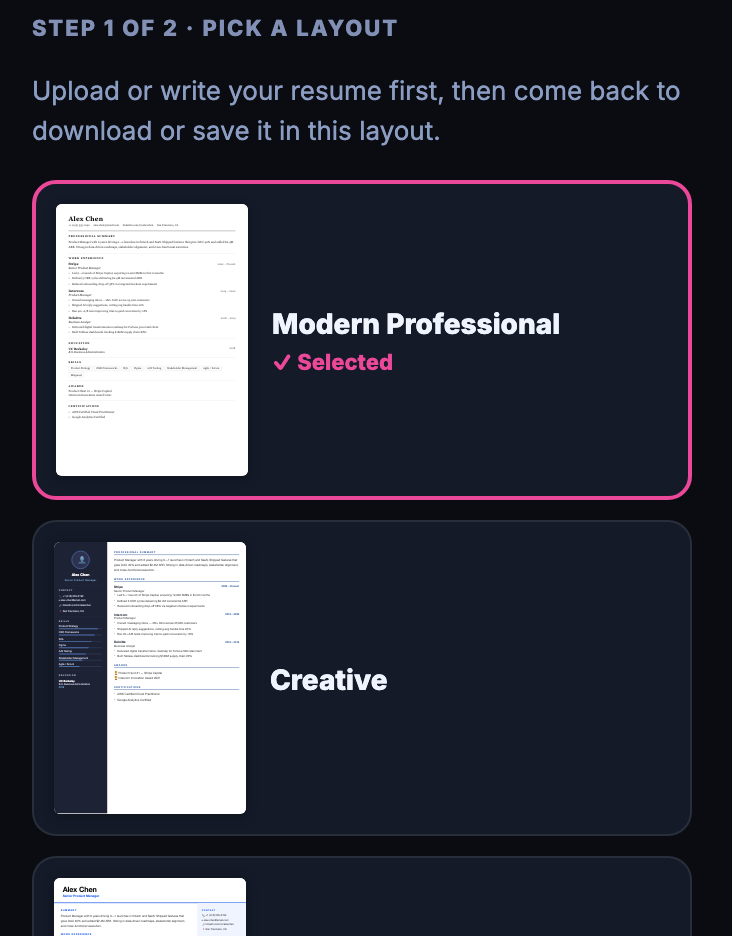
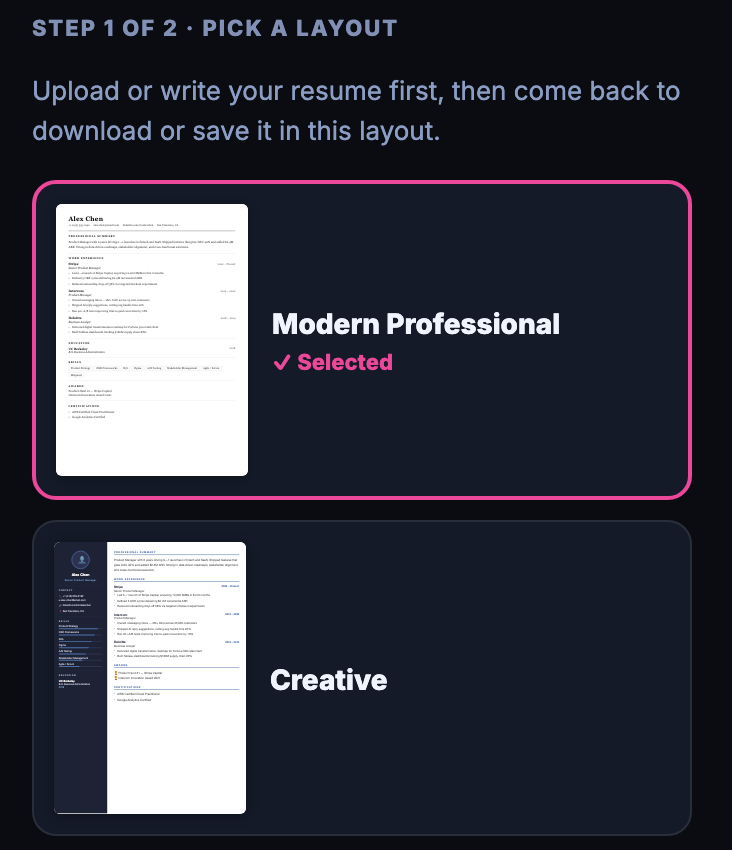
feat(landing): final pass: coach as a simple chat, a better approach section, continuous light in the tool diagram
- AI Career Coach: its own section after the situations. A simple chat window (the app's first three example questions, a typing indicator, an input that opens the coach) and one honest line about what the coach sees. Learned from the owner's chat reference, with no invented answer
- challenge: a soft light flows slowly and continuously along every line, from the logo out to each tool, with three dots in each direction spread out so it never stops
- approach: three connected steps with a small drawing each. Deterministic (the same input, the same result; rules we wrote and test), AI (explains and suggests, never sets your score: ADR-011), You (decide what to do, always). The principles list is folded into the steps and a short footer line
- does not claim an own knowledge base: nothing in the repository shows one (a test keeps the words out until the owner can show it)
- the layout screenshot is cut to two templates

diff --git a/src/features/Landing/NewLanding.css b/src/features/Landing/NewLanding.css
@@ -85,7 +85,9 @@
 /* the connected system */
 .nl-orb { position: relative; width: 100%; aspect-ratio: 13 / 10; display: grid; place-items: center; }
 .nl-orb-lines { position: absolute; inset: 0; width: 100%; height: 100%; }
-.nl-orb-lines path { fill: none; stroke: rgba(155, 123, 255, 0.42); stroke-width: 1.4; stroke-dasharray: 3 7; stroke-linecap: round; vector-effect: non-scaling-stroke; }
+.nl-orb-lines path { fill: none; stroke-linecap: round; vector-effect: non-scaling-stroke; }
+.nl-orb-lines path.nl-line { stroke: rgba(155, 123, 255, 0.38); stroke-width: 1.4; stroke-dasharray: 3 7; }
+.nl-orb-lines path.nl-flow-line { stroke: #F472B6; stroke-width: 2.6; stroke-dasharray: 14 86; filter: drop-shadow(0 0 5px rgba(244, 114, 182, 0.9)); opacity: 0.85; }
 .nl-pulse[data-dir="out"] { fill: #9B7BFF; filter: drop-shadow(0 0 6px rgba(155, 123, 255, 0.9)); }
 .nl-pulse { fill: #F472B6; filter: drop-shadow(0 0 6px rgba(244, 114, 182, 0.9)); }
 .nl-orb-ring { position: absolute; left: 50%; top: 50%; width: 150px; height: 150px; margin: -75px 0 0 -75px; border-radius: 50%; border: 1px solid rgba(155, 123, 255, 0.35); pointer-events: none; }
@@ -146,11 +148,6 @@
 .nl-chip { font-size: 11px; font-weight: 600; letter-spacing: 0.06em; text-transform: uppercase; color: var(--nl-pink); border: 1px solid rgba(244, 114, 182, 0.5); border-radius: 99px; padding: 2px 10px; }
 
 /* approach */
-.nl-approach-grid { display: grid; grid-template-columns: minmax(0, 1fr) minmax(0, 1fr) minmax(0, 0.9fr); gap: 48px; align-items: center; }
-.nl-principles { display: flex; flex-direction: column; gap: 26px; }
-.nl-principles li { display: flex; gap: 16px; align-items: flex-start; }
-.nl-principles h3 { font-size: 17px; font-weight: 700; margin-bottom: 4px; }
-.nl-principles p { font-size: 14px; color: var(--nl-muted); }
 
 /* questions */
 .nl-split-faq { align-items: start; grid-template-columns: minmax(0, 0.7fr) minmax(0, 1.3fr); }
@@ -185,13 +182,15 @@
 .nl-footer-note { margin-top: 40px; padding-top: 24px; border-top: 1px solid var(--nl-border); display: flex; flex-wrap: wrap; justify-content: space-between; gap: 12px 32px; font-size: 12.5px; color: var(--nl-subtle); }
 .nl-footer-note p { max-width: 760px; }
 
-@media (prefers-reduced-motion: reduce) { .nl-pulse, .nl-orb-ring { display: none; } }
+@media (prefers-reduced-motion: reduce) { .nl-pulse, .nl-orb-ring, .nl-flow-line { display: none; } }
 @media (prefers-reduced-motion: no-preference) {
   .nl-orb-ring { animation: nl-ring 3.6s ease-out infinite; }
   .nl-orb-ring2 { animation-delay: 1.8s; }
   .nl-orb-card { animation: nl-float 6s ease-in-out infinite; }
-  .nl-orb-lines path { animation: nl-flow 1.6s linear infinite; }
-  @keyframes nl-flow { to { stroke-dashoffset: -20; } }
+  .nl-orb-lines path.nl-flow-line { animation: nl-flow 5s linear infinite; }
+  @keyframes nl-flow { from { stroke-dashoffset: 0; } to { stroke-dashoffset: -100; } }
+  .nl-orb-card { animation-name: nl-float, nl-glow; animation-duration: 6s, 5s; animation-timing-function: ease-in-out; animation-iteration-count: infinite; }
+  @keyframes nl-glow { 0%, 100% { border-color: var(--nl-border); } 50% { border-color: rgba(244, 114, 182, 0.55); } }
   @keyframes nl-spin { to { transform: rotate(360deg); } }
   @keyframes nl-ring { from { transform: scale(1); opacity: .7; } to { transform: scale(2.1); opacity: 0; } }
   @keyframes nl-float { 0%, 100% { transform: translate(-50%, -50%); } 50% { transform: translate(-50%, calc(-50% - 6px)); } }
@@ -201,15 +200,12 @@
 @media (max-width: 1100px) {
   .nl-wrap { padding-left: 32px; padding-right: 32px; }
   .nl-split-tools, .nl-split-faq { grid-template-columns: 1fr; }
-  .nl-approach-grid { grid-template-columns: 1fr 1fr; }
-  .nl-approach-visual { grid-column: 1 / -1; }
-  .nl-moment-grid { grid-template-columns: repeat(2, minmax(0, 1fr)); }
+    .nl-moment-grid { grid-template-columns: repeat(2, minmax(0, 1fr)); }
 }
 @media (max-width: 860px) {
   .nl-nav-links, .nl-hide-sm { display: none; }
   .nl-menu-btn { display: inline-flex; }
-  .nl-hero-grid, .nl-split, .nl-panel, .nl-approach-grid { grid-template-columns: 1fr; gap: 36px; }
-  .nl-hero-shot { margin-right: 0; }
+  .nl-hero-grid, .nl-split, .nl-panel,   .nl-hero-shot { margin-right: 0; }
   .nl-hero { padding: 40px 0 64px; }
   .nl-nav { gap: 12px; }
   .nl-brand { font-size: 17px; }
@@ -295,49 +291,51 @@
 }
 @media (max-width: 640px) { .nl-demo-body { grid-template-columns: 1fr; } .nl-demo { padding: 14px; } }
 
-/* The AI Career Coach strip under the tools. */
-.nl-tools .nl-coach { margin-top: 28px; border: 1px solid var(--nl-border); border-radius: 20px; background: linear-gradient(160deg, rgba(52, 211, 153, 0.06), var(--nl-surface) 55%); padding: 24px 26px 26px; }
-.nl-coach-head { display: flex; gap: 14px; align-items: center; }
-.nl-coach-head h3 { margin: 0; font-size: 20px; font-weight: 700; letter-spacing: -0.01em; }
-.nl-coach-head p { margin: 3px 0 0; color: var(--nl-muted); font-size: 14.5px; }
-.nl-coach-body { display: grid; grid-template-columns: minmax(0, 1.25fr) minmax(0, 1fr); gap: 22px; margin-top: 20px; align-items: stretch; }
-.nl-coach-chat { border: 1px solid var(--nl-border); border-radius: 16px; background: rgba(7, 11, 20, 0.6); padding: 16px; display: flex; flex-direction: column; gap: 8px; align-items: flex-end; }
-.nl-coach-q { list-style: none; margin: 0; padding: 0; display: flex; flex-direction: column; gap: 8px; align-items: flex-end; width: 100%; }
-.nl-coach-q button { font: inherit; font-size: 13.5px; color: var(--nl-text); background: rgba(155, 123, 255, 0.14); border: 1px solid rgba(155, 123, 255, 0.35); border-radius: 14px 14px 4px 14px; padding: 8px 14px; cursor: pointer; text-align: left; max-width: 100%; }
-.nl-coach-q button:hover { background: rgba(155, 123, 255, 0.26); }
-.nl-coach-typing { align-self: flex-start; display: inline-flex; gap: 5px; padding: 11px 14px; border-radius: 14px 14px 14px 4px; background: var(--nl-surface-hover); border: 1px solid var(--nl-border); }
+/* The AI Career Coach: a simple chat. */
+.nl-coach-sec { background: var(--nl-bg); }
+.nl-coach { display: grid; grid-template-columns: minmax(0, 0.9fr) minmax(0, 1.1fr); gap: 56px; align-items: center; }
+.nl-coach-copy p { margin: 0 0 12px; font-size: 18px; color: var(--nl-muted); line-height: 1.55; }
+.nl-coach-copy .nl-coach-note { font-size: 15px; color: var(--nl-subtle); }
+.nl-chat { border: 1px solid var(--nl-border); border-radius: 22px; background: var(--nl-surface); box-shadow: 0 30px 80px rgba(0, 0, 0, 0.45), 0 0 70px rgba(99, 102, 241, 0.14); overflow: hidden; max-width: 560px; width: 100%; margin-left: auto; }
+.nl-chat-head { display: flex; align-items: center; gap: 10px; padding: 14px 18px; border-bottom: 1px solid var(--nl-border); font-size: 15px; }
+.nl-chat-body { padding: 18px; display: flex; flex-direction: column; gap: 10px; align-items: flex-end; min-height: 230px; }
+.nl-coach-q { list-style: none; margin: 0; padding: 0; display: flex; flex-direction: column; gap: 10px; align-items: flex-end; width: 100%; }
+.nl-coach-q button { font: inherit; font-size: 14px; color: #fff; background: linear-gradient(110deg, #5B4FD6, #7B5BE0); border: 0; border-radius: 16px 16px 4px 16px; padding: 10px 16px; cursor: pointer; text-align: left; max-width: 100%; }
+.nl-coach-q button:hover { filter: brightness(1.12); }
+.nl-coach-typing { align-self: flex-start; display: inline-flex; gap: 5px; padding: 12px 15px; border-radius: 16px 16px 16px 4px; background: var(--nl-surface-hover); border: 1px solid var(--nl-border); }
 .nl-coach-typing i { width: 6px; height: 6px; border-radius: 50%; background: var(--nl-teal); display: block; }
-.nl-coach-know { display: flex; flex-direction: column; gap: 10px; }
-.nl-coach-label { font-size: 11px; font-weight: 700; letter-spacing: 0.1em; text-transform: uppercase; color: var(--nl-subtle); }
-.nl-coach-know ul { list-style: none; margin: 0; padding: 0; display: flex; flex-direction: column; gap: 7px; }
-.nl-coach-know li { display: flex; align-items: center; gap: 10px; font-size: 14px; color: var(--nl-text); padding: 9px 12px; border: 1px solid var(--nl-border); border-radius: 10px; background: rgba(255, 255, 255, 0.02); }
-.nl-coach-know li::before { content: ''; width: 7px; height: 7px; border-radius: 50%; background: var(--nl-teal); flex: none; }
-.nl-coach-know li.is-off { color: var(--nl-subtle); border-style: dashed; }
-.nl-coach-know li.is-off::before { display: none; }
-.nl-coach-know li.is-off em { margin-left: auto; font-style: normal; font-size: 11px; border: 1px solid var(--nl-border); border-radius: 99px; padding: 1px 8px; }
-.nl-coach-know p { margin: 0; font-size: 13px; color: var(--nl-muted); }
-.nl-coach-q button:focus-visible, .nl-coach-open:focus-visible { outline: 2px solid var(--nl-purple); outline-offset: 3px; }
+.nl-chat-input { display: flex; align-items: center; justify-content: space-between; gap: 12px; width: calc(100% - 28px); margin: 0 14px 14px; padding: 8px 8px 8px 16px; border: 1px solid var(--nl-border); border-radius: 14px; background: rgba(7, 11, 20, 0.7); color: var(--nl-subtle); font: inherit; font-size: 14px; cursor: text; text-align: left; }
+.nl-chat-send { width: 34px; height: 34px; border-radius: 10px; display: grid; place-items: center; background: var(--nl-grad); color: #fff; flex: none; }
+.nl-coach-q button:focus-visible, .nl-chat-input:focus-visible { outline: 2px solid var(--nl-purple); outline-offset: 3px; }
 @media (prefers-reduced-motion: no-preference) {
   .nl-coach-q li { animation: nl-in .4s ease both; }
   .nl-coach-typing i { animation: nl-dot 1.2s ease-in-out infinite; }
   .nl-coach-typing i:nth-child(2) { animation-delay: .15s; } .nl-coach-typing i:nth-child(3) { animation-delay: .3s; }
   @keyframes nl-dot { 0%, 60%, 100% { opacity: .3; transform: translateY(0); } 30% { opacity: 1; transform: translateY(-3px); } }
 }
-@media (max-width: 860px) { .nl-coach-body { grid-template-columns: 1fr; } .nl-tools .nl-coach { padding: 18px; } }
-.nl-coach-open { background: none; border: 0; padding: 0; color: var(--nl-pink); font: inherit; font-weight: 600; cursor: pointer; }
-.nl-demo-gate { text-align: center; padding: 22px 18px; display: flex; flex-direction: column; align-items: center; gap: 12px; }
-.nl-demo-gate p { margin: 0; font-size: 15px; line-height: 1.5; font-weight: 600; max-width: 22em; }
-.nl-demo-gate-icon { color: var(--nl-pink); }
+@media (max-width: 860px) { .nl-coach { grid-template-columns: 1fr; gap: 28px; } .nl-chat { margin-left: 0; } }
 
-/* Approach: who does what. */
-.nl-approach-visual { margin: 0; }
-.nl-roles { list-style: none; margin: 0; padding: 0; display: flex; flex-direction: column; gap: 0; position: relative; }
-.nl-roles li { position: relative; display: grid; grid-template-columns: 84px 1fr; grid-template-rows: auto auto; column-gap: 18px; padding: 0 0 26px; }
-.nl-roles li:last-child { padding-bottom: 0; }
-.nl-roles li:not(:last-child)::before { content: ''; position: absolute; left: 41px; top: 40px; bottom: 0; width: 0; border-left: 2px dashed rgba(155, 123, 255, 0.5); }
-.nl-role-tag { grid-row: 1 / span 2; align-self: start; width: 84px; text-align: center; font-weight: 800; font-size: 15px; padding: 9px 0; border-radius: 12px; background: var(--nl-grad); color: #fff; }
-.nl-roles li:nth-child(2) .nl-role-tag { background: rgba(155, 123, 255, 0.18); border: 1px solid rgba(155, 123, 255, 0.5); color: var(--nl-text); }
-.nl-roles li:nth-child(3) .nl-role-tag { background: rgba(52, 211, 153, 0.16); border: 1px solid rgba(52, 211, 153, 0.5); color: var(--nl-text); }
-.nl-role-do { font-size: 20px; font-weight: 700; letter-spacing: -0.01em; align-self: end; }
-.nl-role-note { font-size: 14px; color: var(--nl-muted); }
-.nl-approach-visual figcaption { margin-top: 22px; font-size: 14px; color: var(--nl-muted); }
+/* Approach: who does what, as three connected steps. */
+.nl-approach-intro { max-width: 820px; }
+.nl-flow { list-style: none; margin: 40px 0 0; padding: 0; display: grid; grid-template-columns: minmax(0, 1fr) 56px minmax(0, 1fr) 56px minmax(0, 1fr); align-items: stretch; }
+.nl-flow-step { border: 1px solid var(--nl-border); border-radius: 20px; background: var(--nl-surface); padding: 24px 22px 26px; display: flex; flex-direction: column; gap: 10px; }
+.nl-flow-art { color: var(--nl-purple); height: 56px; display: block; }
+.nl-flow-step:nth-child(3) .nl-flow-art { color: var(--nl-pink); }
+.nl-flow-step:nth-child(5) .nl-flow-art { color: var(--nl-teal); }
+.nl-flow-tag { align-self: flex-start; font-size: 12px; font-weight: 800; letter-spacing: 0.06em; text-transform: uppercase; padding: 4px 12px; border-radius: 99px; background: rgba(155, 123, 255, 0.16); border: 1px solid rgba(155, 123, 255, 0.45); }
+.nl-flow-step h3 { margin: 4px 0 0; font-size: 21px; font-weight: 700; letter-spacing: -0.015em; line-height: 1.25; }
+.nl-flow-step p { margin: 0; color: var(--nl-muted); font-size: 15px; line-height: 1.55; }
+.nl-flow-arrow { display: flex; align-items: center; justify-content: center; gap: 5px; }
+.nl-flow-arrow i { width: 7px; height: 7px; border-radius: 50%; background: var(--nl-purple); opacity: 0.35; }
+.nl-flow-foot { margin-top: 28px; display: flex; flex-wrap: wrap; gap: 8px 28px; color: var(--nl-muted); font-size: 14px; }
+.nl-flow-foot strong { color: var(--nl-text); }
+.nl-approach .nl-text-link { margin-top: 18px; }
+@media (prefers-reduced-motion: no-preference) {
+  .nl-flow-arrow i { animation: nl-arrow 1.5s ease-in-out infinite; }
+  .nl-flow-arrow i:nth-child(2) { animation-delay: .2s; } .nl-flow-arrow i:nth-child(3) { animation-delay: .4s; }
+  @keyframes nl-arrow { 0%, 100% { opacity: .25; } 50% { opacity: 1; } }
+}
+@media (max-width: 860px) {
+  .nl-flow { grid-template-columns: 1fr; gap: 0; }
+  .nl-flow-arrow { flex-direction: column; height: 44px; }
+}

diff --git a/src/features/Landing/NewLanding.jsx b/src/features/Landing/NewLanding.jsx
@@ -59,7 +59,7 @@ const MOMENTS = [
     gets: ['See what a reader finds in your CV and what to fix first, by fixed rules.', 'Compare your CV with a job description, with keywords and red flags.', 'Draft a cover letter for each role, and keep every application in one tracker.'],
     stays: 'Your CV is saved once. Every other tool starts from it.',
     tools: 'Resume Builder, ATS Scanner, JD Analyzer, Cover Letter AI, Job Search.',
-    shots: [{ key: 'templates', src: templatesShot, w: 732, h: 936, chip: 'Five layouts', alt: 'The Resume Builder layout step: a list of resume templates (Modern Professional and Creative) with a small preview of each', caption: 'Pick a layout and keep your content. A real screen with a synthetic account and made-up data.' }],
+    shots: [{ key: 'templates', src: templatesShot, w: 732, h: 850, chip: 'Five layouts', alt: 'The Resume Builder layout step: a list of resume templates (Modern Professional and Creative) with a small preview of each', caption: 'Pick a layout and keep your content. A real screen with a synthetic account and made-up data.' }],
   },
   {
     id: 'interview', title: 'I have an interview coming', sub: 'Practise, get feedback, prepare with more confidence.',
@@ -91,15 +91,14 @@ const MOMENTS = [
   },
 ];
 
-const ROLES = [
-  { tag: 'Rules', does: 'decide the result', note: 'Same CV, same result.' },
-  { tag: 'AI', does: 'explains and suggests', note: 'Never sets your score.' },
-  { tag: 'You', does: 'decide what to do', note: 'Always.' },
-];
-const PRINCIPLES = [
-  { icon: 'rules', name: 'Rules where possible', text: 'Use explicit rules for checks that can be calculated consistently. The same CV gives the same result.' },
-  { icon: 'eye', name: 'Evidence over assumptions', text: 'Make the basis and the limits of feedback visible, and say so when there is not enough evidence.' },
-  { icon: 'proof', name: 'Proof over claims', text: 'No ratings, user counts or partner logos on this page, because we do not have evidence for them yet.' },
+// Who does what. The wording follows ADR-011: the number a user sees is computed by code, and the model explains but never sets it.
+const FLOW = [
+  { tag: 'Deterministic', title: 'The same input, the same result.', text: 'Rules we wrote and test decide your result. It stays consistent, and each part shows its evidence.',
+    art: <svg viewBox="0 0 120 56" width="120" height="56" fill="none" stroke="currentColor" strokeWidth="1.8" strokeLinecap="round" strokeLinejoin="round"><rect x="6" y="8" width="26" height="34" rx="4" /><path d="M12 18h14M12 25h14M12 32h9" /><path d="M42 20h14M42 30h14" /><rect x="64" y="8" width="26" height="34" rx="4" /><path d="M70 18h14M70 25h14M70 32h9" /><path d="M98 25l6 6 11-12" /></svg> },
+  { tag: 'AI', title: 'Explains and suggests.', text: 'It helps you understand the result and how to improve it. It never sets your score.',
+    art: <svg viewBox="0 0 120 56" width="120" height="56" fill="none" stroke="currentColor" strokeWidth="1.8" strokeLinecap="round" strokeLinejoin="round"><path d="M10 8h66a6 6 0 0 1 6 6v16a6 6 0 0 1-6 6H34l-12 10V36h-12a6 6 0 0 1-6-6V14a6 6 0 0 1 6-6z" transform="translate(4 0)" /><path d="M24 18h38M24 26h24" /><path d="M96 10l2.4 6.6L105 19l-6.6 2.4L96 28l-2.4-6.6L87 19l6.6-2.4z" /></svg> },
+  { tag: 'You', title: 'Decide what to do.', text: 'Always. You choose what to keep, change or leave.',
+    art: <svg viewBox="0 0 120 56" width="120" height="56" fill="none" stroke="currentColor" strokeWidth="1.8" strokeLinecap="round" strokeLinejoin="round"><rect x="6" y="10" width="32" height="14" rx="7" /><path d="M16 17l4 4 8-8" /><rect x="44" y="10" width="32" height="14" rx="7" strokeDasharray="3 4" /><rect x="82" y="10" width="32" height="14" rx="7" strokeDasharray="3 4" /><path d="M10 40h100" /><circle cx="22" cy="40" r="5" fill="currentColor" /></svg> },
 ];
 
 const FAQ = [
@@ -120,8 +119,8 @@ const PARTNER = [
 
 // The tools of the app's own sidebar (src/components/AppSidebar.jsx) with their badges. Verify Creds (in development) and TrustMatch (planned) are not drawn; the caption says more are on the way.
 // x and y are positions on the 520 x 400 drawing, round the logo at (260, 200).
-// The example questions of the AI Career Coach in the app (src/features/AICoach/AICoach.jsx, QUICK_PROMPTS).
-const COACH_QUESTIONS = ['What should I focus on this week?', 'How do I answer the biggest weakness question?', 'Why do resumes get filtered out early?', 'How do I negotiate salary before I have an offer?', 'Should I apply broadly or target fewer roles?'];
+// The example questions of the AI Career Coach in the app (src/features/AICoach/AICoach.jsx, QUICK_PROMPTS), the first three of them in the same words.
+const COACH_QUESTIONS = ['What should I focus on this week?', 'How do I answer the biggest weakness question?', 'How do I negotiate salary before I have an offer?'];
 const ORBIT_TOOLS = [
   { name: 'Resume Builder', badge: 'Live', icon: 'doc', x: 260, y: 66 },
   { name: 'ATS Scanner', badge: 'Live', icon: 'rules', x: 382, y: 108 },
@@ -210,9 +209,10 @@ export default function NewLanding({ onStart, onSignIn, onModuleSelect }) {
             <div className="nl-orb-wrap">
               <div className="nl-orb" role="img" aria-label="The CareerAiHub logo in the middle, connected to the tools of the platform: Resume Builder, ATS Scanner, Cover Letter AI, Interview Coach, Salary Prep, Skills Gap, Career Roadmap and AI Career Coach">
                 <svg className="nl-orb-lines" aria-hidden="true" viewBox="0 0 520 400" preserveAspectRatio="xMidYMid meet">
-                  {ORBIT_TOOLS.map((t, i) => <path key={t.name} d={toolPath(t)} style={{ animationDelay: `${i * -0.45}s` }} />)}
-                  {ORBIT_TOOLS.map((t, i) => <circle key={`in-${t.name}`} className="nl-pulse" data-dir="in" r="3.5"><animateMotion dur="2.6s" begin={`${i * 0.33}s`} repeatCount="indefinite" path={toolPath(t)} /></circle>)}
-                  {ORBIT_TOOLS.map((t, i) => <circle key={`out-${t.name}`} className="nl-pulse" data-dir="out" r="3.5"><animateMotion dur="2.6s" begin={`${i * 0.33}s`} repeatCount="indefinite" path={toolPathOut(t)} /></circle>)}
+                  {ORBIT_TOOLS.map(t => <path key={t.name} className="nl-line" d={toolPathOut(t)} />)}
+                  {ORBIT_TOOLS.map((t, i) => <path key={`f-${t.name}`} className="nl-flow-line" d={toolPathOut(t)} pathLength="100" style={{ animationDelay: `${i * -0.6}s` }} />)}
+                  {ORBIT_TOOLS.map((t, i) => [0, 1, 2].map(k => <circle key={`in-${t.name}-${k}`} className="nl-pulse" data-dir="in" r="3"><animateMotion dur="5s" begin={`${(i * 0.35 + k * 5 / 3).toFixed(2)}s`} repeatCount="indefinite" path={toolPath(t)} /></circle>))}
+                  {ORBIT_TOOLS.map((t, i) => [0, 1, 2].map(k => <circle key={`out-${t.name}-${k}`} className="nl-pulse" data-dir="out" r="3"><animateMotion dur="5s" begin={`${(i * 0.35 + k * 5 / 3 + 0.8).toFixed(2)}s`} repeatCount="indefinite" path={toolPathOut(t)} /></circle>))}
                 </svg>
                 <div className="nl-orb-ring" aria-hidden="true" /><div className="nl-orb-ring nl-orb-ring2" aria-hidden="true" />
                 <div className="nl-orb-core"><OrbitMark size={132} animated={!prefersReducedMotion()} duration={6} /></div>
@@ -245,29 +245,6 @@ export default function NewLanding({ onStart, onSignIn, onModuleSelect }) {
                 </li>
               ))}
             </ul>
-          </div>
-          <div className="nl-wrap">
-            <div className="nl-coach">
-              <div className="nl-coach-head">
-                <span className="nl-icon nl-tone-teal"><Icon name="users" /></span>
-                <div><h3>Ask your AI Career Coach</h3><p>Ask about your next move, interviews, salary or applications.</p></div>
-              </div>
-              <div className="nl-coach-body">
-                <div className="nl-coach-chat">
-                  <ul className="nl-coach-q">{COACH_QUESTIONS.map((q, i) => <li key={q} style={{ animationDelay: `${i * 0.12}s` }}><button type="button" onClick={() => openTool('aichat')}>{q}</button></li>)}</ul>
-                  <div className="nl-coach-typing" aria-hidden="true"><i /><i /><i /></div>
-                </div>
-                <div className="nl-coach-know">
-                  <div className="nl-coach-label">What the coach knows</div>
-                  <ul>
-                    <li>Target role</li><li>Level</li><li>Market</li><li>Activity summary</li>
-                    <li className="is-off"><svg aria-hidden="true" width="14" height="14" viewBox="0 0 24 24" fill="none" stroke="currentColor" strokeWidth="2" strokeLinecap="round" strokeLinejoin="round"><rect x="5" y="11" width="14" height="9" rx="2" /><path d="M8 11V8a4 4 0 0 1 8 0v3" /></svg>CV text and answers <em>Not read</em></li>
-                  </ul>
-                  <p>A short summary, not your documents.</p>
-                  <button type="button" className="nl-text-link nl-coach-open" onClick={() => openTool('aichat')}>Open the AI Career Coach <Icon name="arrow" size={16} /></button>
-                </div>
-              </div>
-            </div>
           </div>
         </section>
 
@@ -306,27 +283,51 @@ export default function NewLanding({ onStart, onSignIn, onModuleSelect }) {
           </div>
         </section>
 
+        <section id="coach" className="nl-section nl-coach-sec">
+          <div className="nl-wrap nl-coach">
+            <div className="nl-coach-copy">
+              <div className="nl-eyebrow">Your coach</div>
+              <h3 className="nl-h2">Ask your AI Career Coach</h3>
+              <p>Ask about your next move, interviews, salary or applications.</p>
+              <p className="nl-coach-note">It knows your target role, level, market and a short summary of your activity. It does not read your CV.</p>
+            </div>
+            <div className="nl-chat" role="group" aria-label="An example of asking the AI Career Coach">
+              <div className="nl-chat-head"><OrbitMark size={30} /><b>AI Career Coach</b><span className="nl-orb-badge nl-orb-badge-new">New</span></div>
+              <div className="nl-chat-body">
+                <ul className="nl-coach-q">{COACH_QUESTIONS.map((q, i) => <li key={q} style={{ animationDelay: `${i * 0.15}s` }}><button type="button" onClick={() => openTool('aichat')}>{q}</button></li>)}</ul>
+                <div className="nl-coach-typing" aria-hidden="true"><i /><i /><i /></div>
+              </div>
+              <button type="button" className="nl-chat-input" onClick={() => openTool('aichat')}><span>Ask your career coach anything…</span><span className="nl-chat-send" aria-hidden="true"><Icon name="arrow" size={16} /></span></button>
+            </div>
+          </div>
+        </section>
+
         <section id="approach" className="nl-section nl-approach">
-          <div className="nl-wrap nl-approach-grid">
-            <div className="nl-copy">
+          <div className="nl-wrap">
+            <div className="nl-copy nl-approach-intro">
               <div className="nl-eyebrow">Our approach</div>
               <h2 className="nl-h2">AI should help you move forward. It should not make the decision for you.</h2>
-              <p>We believe career technology should be useful, transparent and grounded in evidence. AI can help people understand information, practise important skills and explore next steps, while important decisions stay in human hands.</p>
-              <a className="nl-text-link" href="#faq">Read the questions people ask <Icon name="arrow" size={16} /></a>
+              <p>We believe career technology should be useful, transparent and grounded in evidence. Here is who does what.</p>
             </div>
-            <ul className="nl-principles">
-              {PRINCIPLES.map(p => (
-                <li key={p.name}><span className="nl-icon nl-icon-round"><Icon name={p.icon} /></span><div><h3>{p.name}</h3><p>{p.text}</p></div></li>
+            <ol className="nl-flow">
+              {FLOW.map((f, i) => (
+                <React.Fragment key={f.tag}>
+                  <li className="nl-flow-step">
+                    <span className="nl-flow-art" aria-hidden="true">{f.art}</span>
+                    <span className="nl-flow-tag">{f.tag}</span>
+                    <h3>{f.title}</h3>
+                    <p>{f.text}</p>
+                  </li>
+                  {i < FLOW.length - 1 && <li className="nl-flow-arrow" aria-hidden="true"><i /><i /><i /></li>}
+                </React.Fragment>
               ))}
-            </ul>
-            <figure className="nl-approach-visual" aria-label="Who does what: rules decide the result, AI explains and suggests, you decide what to do">
-              <ol className="nl-roles">
-                {ROLES.map(r => (
-                  <li key={r.tag}><span className="nl-role-tag">{r.tag}</span><span className="nl-role-do">{r.does}</span><span className="nl-role-note">{r.note}</span></li>
-                ))}
-              </ol>
-              <figcaption>We cannot promise a result. We can help you walk in prepared.</figcaption>
-            </figure>
+            </ol>
+            <div className="nl-flow-foot">
+              <span>Every point shows its evidence.</span>
+              <span>No ratings, user counts or partner logos here, because we do not have evidence for them yet.</span>
+              <span><strong>We cannot promise a result. We can help you walk in prepared.</strong></span>
+            </div>
+            <a className="nl-text-link" href="#faq">Read the questions people ask <Icon name="arrow" size={16} /></a>
           </div>
         </section>
 

diff --git a/src/features/Landing/NewLanding.test.jsx b/src/features/Landing/NewLanding.test.jsx
@@ -60,33 +60,31 @@ describe('the new landing page', () => {
   });
 });
 
-describe('the AI Career Coach strip', () => {
+describe('the AI Career Coach section', () => {
   const norm = (t) => t.replace(/\s+/g, ' ');
-  it('is short: one title, one line, a chat of the real example questions, and what the coach knows', () => {
+  it('comes after the situations and before the approach, as a simple chat with the real example questions', () => {
     const { container, onModuleSelect } = show();
-    const sec = container.querySelector('.nl-coach');
+    const sec = container.querySelector('#coach');
+    expect(sec.previousElementSibling.id).toBe('system');
+    expect(sec.nextElementSibling.id).toBe('approach');
     expect(within(sec).getByRole('heading', { level: 3 }).textContent).toBe('Ask your AI Career Coach');
-    expect(norm(sec.textContent).split(' ').length).toBeLessThan(90);
-    // The example questions of src/features/AICoach/AICoach.jsx (QUICK_PROMPTS).
+    expect(norm(sec.textContent).split(' ').length).toBeLessThan(75);
+    // The first example questions of src/features/AICoach/AICoach.jsx (QUICK_PROMPTS).
     expect([...sec.querySelectorAll('.nl-coach-q button')].map(b => b.textContent)).toEqual([
-      'What should I focus on this week?', 'How do I answer the biggest weakness question?', 'Why do resumes get filtered out early?',
-      'How do I negotiate salary before I have an offer?', 'Should I apply broadly or target fewer roles?',
+      'What should I focus on this week?', 'How do I answer the biggest weakness question?', 'How do I negotiate salary before I have an offer?',
     ]);
     expect(sec.querySelector('.nl-coach-typing')).toBeTruthy(); // the coach is "typing": the page shows no invented answer
-    fireEvent.click(within(sec).getByRole('button', { name: /Why do resumes get filtered out early/ }));
+    fireEvent.click(within(sec).getByRole('button', { name: /How do I negotiate salary/ }));
     expect(onModuleSelect).toHaveBeenLastCalledWith('aichat');
-    fireEvent.click(within(sec).getByRole('button', { name: /Open the AI Career Coach/ }));
+    fireEvent.click(within(sec).getByRole('button', { name: /Ask your career coach anything/i }));
     expect(onModuleSelect).toHaveBeenLastCalledWith('aichat');
   });
-  it('is honest about what the coach sees: a short summary, not the CV or the answers', () => {
+  it('is honest in one line about what the coach sees: a short summary, not the CV or the answers', () => {
     const { container } = show();
-    const sec = container.querySelector('.nl-coach');
-    expect([...sec.querySelectorAll('.nl-coach-know li:not(.is-off)')].map(li => li.textContent)).toEqual(['Target role', 'Level', 'Market', 'Activity summary']);
-    const off = sec.querySelector('.nl-coach-know li.is-off');
-    expect(norm(off.textContent)).toMatch(/CV text and answers/);
-    expect(norm(off.textContent)).toMatch(/Not read/);
-    expect(norm(sec.textContent)).toMatch(/short summary/i);
-    expect(norm(sec.textContent)).not.toMatch(/reads your (CV|resume)|knows everything|your whole (career|history)/i);
+    const t = norm(container.querySelector('#coach').textContent);
+    expect(t).toMatch(/target role, level, market and a short summary of your activity/i);
+    expect(t).toMatch(/does not read your CV/i);
+    expect(t).not.toMatch(/reads your (CV|resume)|knows everything|your whole (career|history)/i);
   });
 });
 
@@ -107,11 +105,23 @@ describe('the confidence message', () => {
 });
 
 describe('the approach section', () => {
-  it('shows who does what as a small diagram of its own, not a screenshot', () => {
+  const norm = (t) => t.replace(/\s+/g, ' ');
+  it('shows who does what as three connected steps of its own design, not a screenshot', () => {
     const { container } = show();
     const sec = container.querySelector('#approach');
     expect(sec.querySelector('img')).toBeNull();
-    expect([...sec.querySelectorAll('.nl-roles li')].map(li => li.querySelector('.nl-role-tag').textContent + ' ' + li.querySelector('.nl-role-do').textContent)).toEqual(['Rules decide the result', 'AI explains and suggests', 'You decide what to do']);
+    const steps = [...sec.querySelectorAll('.nl-flow-step')];
+    expect(steps.map(st => st.querySelector('.nl-flow-tag').textContent)).toEqual(['Deterministic', 'AI', 'You']);
+    expect(norm(steps[0].textContent)).toMatch(/The same input, the same result/);
+    expect(norm(steps[1].textContent)).toMatch(/Explains and suggests/);
+    expect(norm(steps[1].textContent)).toMatch(/never sets your score/i);
+    expect(norm(steps[2].textContent)).toMatch(/Decide what to do/);
+    expect(norm(steps[2].textContent)).toMatch(/Always/);
+    expect(sec.querySelectorAll('.nl-flow-arrow')).toHaveLength(2);
+  });
+  it('does not claim a knowledge base the product cannot show', () => {
+    const { container } = show();
+    expect(norm(container.textContent)).not.toMatch(/knowledge base/i);
   });
   it('no image is used twice on the page', () => {
     const { container } = show();
@@ -154,9 +164,10 @@ describe('the challenge section', () => {
     const core = orb.querySelector('.nl-orb-core');
     expect(core.querySelector('svg ellipse')).toBeTruthy();          // the orbit rings of the brand mark (src/components/OrbitMark.jsx)
     expect(core.querySelector('svg animateMotion')).toBeTruthy();    // its satellites move
-    expect(orb.querySelectorAll('.nl-orb-lines path')).toHaveLength(8);
-    expect(orb.querySelectorAll('.nl-orb-lines .nl-pulse[data-dir="in"]')).toHaveLength(8);
-    expect(orb.querySelectorAll('.nl-orb-lines .nl-pulse[data-dir="out"]')).toHaveLength(8);
+    expect(orb.querySelectorAll('.nl-orb-lines path.nl-line')).toHaveLength(8);
+    expect(orb.querySelectorAll('.nl-orb-lines path.nl-flow-line')).toHaveLength(8);        // a soft light that keeps flowing along each line
+    expect(orb.querySelectorAll('.nl-orb-lines .nl-pulse[data-dir="in"]')).toHaveLength(24);   // three dots in each direction on every line, spread out, so the light never stops
+    expect(orb.querySelectorAll('.nl-orb-lines .nl-pulse[data-dir="out"]')).toHaveLength(24);
     // The tools and badges of the app's own sidebar (src/components/AppSidebar.jsx). Verify Creds (in development) and TrustMatch (planned) are left out and the page says more are on the way.
     expect([...orb.querySelectorAll('.nl-orb-card')].map(c => `${c.querySelector('.nl-orb-name').textContent} ${c.querySelector('.nl-orb-badge').textContent}`)).toEqual([
       'Resume Builder Live', 'ATS Scanner Live', 'Cover Letter AI New', 'Interview Coach Live', 'Salary Prep Live', 'Skills Gap New', 'Career Roadmap New', 'AI Career Coach New',
